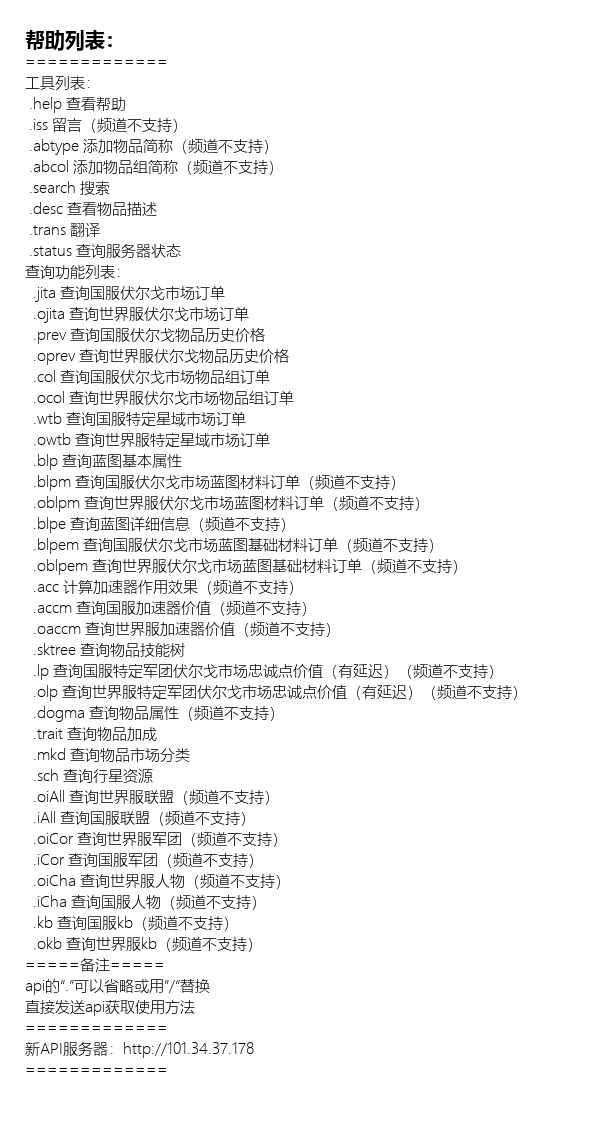
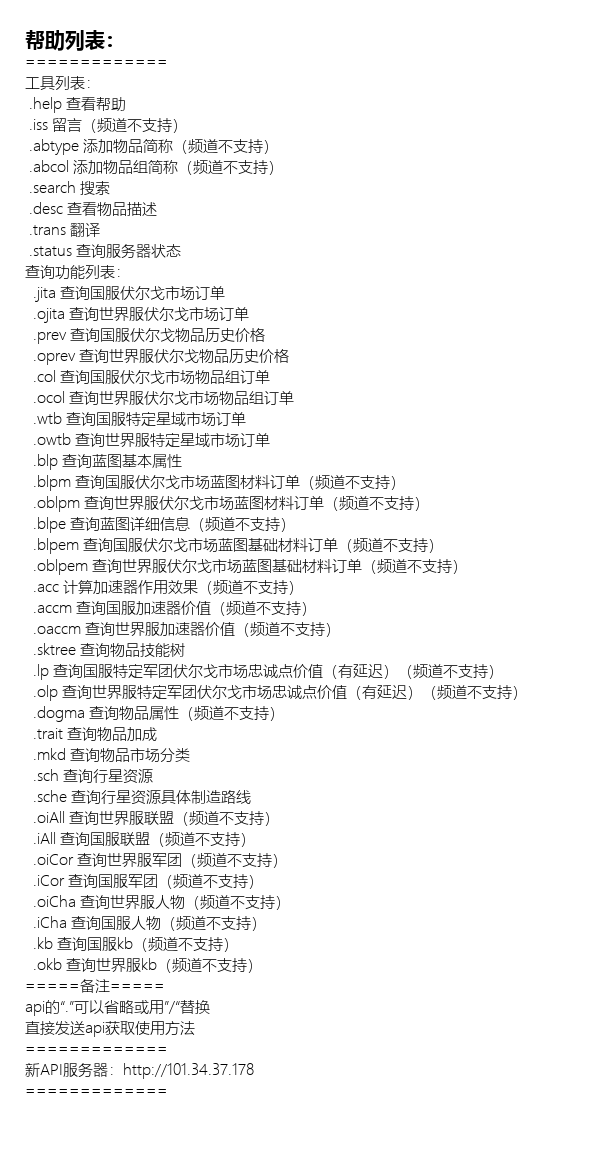
添加sche功能

Changed region(s): [[0.0299, 0.0305, 0.8671, 0.9468], [0.3887, 0.8857, 0.4186, 0.9162]]

diff --git a/sup.py b/sup.py
@@ -27,7 +27,7 @@ mpl.rcParams['axes.unicode_minus'] = False
 
 global market_type_list, blp_list, reg_list, mkd_list, prod_list, data_list, blpt_list, id_list, blp_detail_list, abbr_list, logger, logger2, \
     desc_list, trans_version_df, npc_cor_list, dogma_list, plaSch_list, traits_list, ship_data_list, plaSch_id_list, skill_dict, skill_point, \
-    skill_base_point
+    skill_base_point, sch_expand_dict, sch_prod_dict_f, sch_prod_dict_e
 '''supporting databases'''
 BASE_DATA_PATH = 'supporting_files/data.csv'
 BASE_BLP_PATHr = 'supporting_files/blueprints.yaml'
@@ -51,6 +51,8 @@ BASE_ISSLOG_PATH = 'bot_logs/issue_logs'
 BASE_HELPER_PATH = 'sup_images/helper_image.png'
 BASE_ADMIN_HELPER_PATH = 'sup_images/helper_admin_image.png'
 BASE_SKILL_LIST_PATH = 'supporting_files/skill.yaml'
+BASE_SCH_EXPAND_PATH = 'supporting_files/schExpand.yaml'
+BASE_SCH_PROD_PATH = 'supporting_files/schProducts.csv'
 
 skill_base_point = [0, 250, 1414, 8000, 45254, 256000]
 
@@ -301,7 +303,8 @@ def pre_load():
     -> maxProductionLimit:int
     """
     global market_type_list, blp_list, reg_list, mkd_list, prod_list, data_list, blpt_list, id_list, blp_detail_list, abbr_list, logger, logger2, \
-        desc_list, trans_version_df, npc_cor_list, dogma_list, plaSch_list, traits_list, ship_data_list, plaSch_id_list, skill_dict, skill_point, skill_base_point
+        desc_list, trans_version_df, npc_cor_list, dogma_list, plaSch_list, traits_list, ship_data_list, plaSch_id_list, skill_dict, skill_point, \
+        skill_base_point, sch_expand_dict, sch_prod_dict_f, sch_prod_dict_e
     if not os.path.exists(BASE_LOG_PATH):
         os.makedirs(BASE_LOG_PATH)
     if not os.path.exists(BASE_ISSLOG_PATH):
@@ -347,7 +350,9 @@ def pre_load():
             open(BASE_TRAITS_PATH, mode='r', encoding='utf-8') as traitf, \
             open(BASE_SHIP_LIST_PATH, mode='r', encoding='utf-8') as slpf, \
             open(BASE_PLANET_SCH_NAME_PATH, mode='r', encoding='utf-8') as psnpf, \
-            open(BASE_SKILL_LIST_PATH, mode='r', encoding='utf-8') as skf:
+            open(BASE_SKILL_LIST_PATH, mode='r', encoding='utf-8') as skf, \
+            open(BASE_SCH_EXPAND_PATH, mode='r', encoding='utf-8') as schef, \
+            open(BASE_SCH_PROD_PATH, mode='r', encoding='utf-8') as scprodf:
         c = csv.reader(data)
         keys = next(c)
         data_list = {}
@@ -401,6 +406,13 @@ def pre_load():
         plaSch_id_list = {}
         for row in p:
             plaSch_id_list[row[1]] = row[0]
+        dp = csv.reader(scprodf)
+        next(dp)
+        sch_prod_dict_f = {}
+        sch_prod_dict_e = {}
+        for row in dp:
+            sch_prod_dict_f[row[0]] = row[1]
+            sch_prod_dict_e[row[1]] = row[0]
         blp_list = yaml.safe_load(blpf)
         blp_detail_list = yaml.safe_load(blpd)
         abbr_list = yaml.safe_load(abbr)
@@ -410,9 +422,11 @@ def pre_load():
         plaSch_list = yaml.safe_load(plcf)
         traits_list = yaml.safe_load(traitf)
         skill_dict = yaml.safe_load(skf)
+        sch_expand_dict = yaml.safe_load(schef)
         del c, rr, m, p, t
         return market_type_list, blp_list, reg_list, mkd_list, prod_list, data_list, blpt_list, id_list, blp_detail_list, \
-               abbr_list, desc_list, trans_version_df, npc_cor_list, dogma_list, plaSch_list, traits_list, ship_data_list, plaSch_id_list, logger, logger2, skill_dict
+               abbr_list, desc_list, trans_version_df, npc_cor_list, dogma_list, plaSch_list, traits_list, ship_data_list, plaSch_id_list, logger, \
+               logger2, skill_dict, sch_expand_dict, sch_prod_dict_f, sch_prod_dict_e
 
 
 def admin(command: list, group_id: int, sender: dict, *args, **kwargs):
@@ -1684,7 +1698,7 @@ def sch(command: list, group_id: int, *args, **kwargs) -> Union[dict, bool]:
         except KeyError:
             typename = max(
                 process.extract(
-                    typename, plaSch_list.keys(), limit=5
+                    typename, plaSch_id_list.keys(), limit=5
                 ),
                 key=lambda x: fuzz.ratio(typename, x[0])
             )[0]
@@ -1701,6 +1715,65 @@ def sch(command: list, group_id: int, *args, **kwargs) -> Union[dict, bool]:
             text += '  {}\n'.format(id_list[str(i)])
     return {'action': 'send_group_msg', 'params': {'group_id': group_id, 'message': [
         {'type': 'text', 'data': {'text': text}}]}, 'echo': 'apiCallBack'}
+
+
+def sche_formatter(fmt, level: int):
+    global id_list
+    text = ''
+    if len(fmt['materials']) > 1:
+        for f in range(len(fmt['materials']) - 1):
+            text += '  ' * level + '├─' + '{0} × {1}\n'.format(id_list[str(fmt['materials'][f]['typeId'])], fmt['materials'][f]['quantity'])
+            if 'materials' in fmt['materials'][f].keys():
+                text += sche_formatter(fmt['materials'][f], level + 1)
+    text += '  ' * level + '└─' + '{0} × {1}\n'.format(id_list[str(fmt['materials'][-1]['typeId'])], fmt['materials'][-1]['quantity'])
+    return text
+
+
+def sche(command: list, group_id: int, *args, **kwargs) -> Union[dict, bool]:
+    global data_list, id_list, plaSch_id_list, sch_expand_dict, sch_prod_dict_f, sch_prod_dict_e
+    print('using sche')
+    if len(command) < 1 or command[0] == '':
+        text = '用法(sche)： .sche 行星产物名'
+        return {'action': 'send_group_msg', 'params': {'group_id': group_id, 'message': [
+            {'type': 'text', 'data': {'text': text}}]}, 'echo': 'apiCallBack'}
+    else:
+        typename = command[0]
+        try:
+            dt_id = plaSch_id_list[typename]
+            tp_id = data_list[typename]
+        except KeyError:
+            typename = max(
+                process.extract(
+                    typename, plaSch_id_list.keys(), limit=5
+                ),
+                key=lambda x: fuzz.ratio(typename, x[0])
+            )[0]
+            dt_id = int(plaSch_id_list[typename])
+            tp_id = data_list[typename]
+        dt = sch_expand_dict[dt_id]
+        title_text = '物品名称：%s' % id_list[tp_id]
+        text = '产出：{0}×{1}\n'.format(id_list[tp_id], dt['quantity'])
+        text += sche_formatter(dt, 0)
+        img_base = Image.new("RGB", (1, 1), 'white')
+        img_draw = ImageDraw.Draw(img_base)
+        title_width = img_draw.textsize(title_text, simhei_20)[0]
+        text_width, text_height = img_draw.textsize(text, simhei_15)
+        # print(inf_data[2])
+        # print(dl)
+        img_base = img_base.resize((
+            max(50 + title_width + 50, 50 + text_width + 50),
+            100 + text_height + 100))
+        img_draw = ImageDraw.Draw(img_base)
+        img_draw.text((50, 50), text=title_text, fill='black', font=simhei_b_20)
+        img_draw.text((50, 100), text=text, fill='black', font=simhei_15)
+        fp = '$' + time.strftime('%Y%m%d%H%M%S', time.localtime(time.time())) + \
+             str(random.randint(random.randint(0, 150), random.randint(200, 300)))
+        img_base.save('data/images/cache/' + fp + ".png")
+        return {'action': 'send_group_msg',
+                'params': {'group_id': group_id,
+                           'message': [{'type': 'image',
+                                        'data': {'file': 'cache\\' + fp + '.png'}}]},
+                'echo': 'IMAGE' + 'data/images/cache/' + fp + ".png"}
 
 
 def lp(command: list, group_id: int, *args, **kwargs) -> Union[dict, bool]:
@@ -2986,7 +3059,7 @@ def acc(command: list, group_id: int, *args, **kwargs):
 
 def accm(command: list, group_id: int, *args, **kwargs):
     print('using accm')
-    if len(command) < 2 or int(command[0]) * int(command[1]) == 0:
+    if len(command) < 2 or float(command[0]) * float(command[1]) == 0:
         text = '用法(accm)：.accm 属性加成，实际作用时长，（脑浆衰减档次）\n' \
                '例：.accm 4，7\n即：应用加成后7天+4加速器\n.accm, 5，5，3\n即：应用加成后5天+5加速器，档次3(500,000→150,000)'
     else:
@@ -3006,7 +3079,7 @@ def accm(command: list, group_id: int, *args, **kwargs):
             dec = 150_000
         l_skill = requests.get(BASE_SKILL_MARKET).json()
         s_skill = requests.get(BASE_SKILL_S_MARKET).json()
-        v_point = plus * 3 * 24 * 60 * day
+        v_point = plus * 1.5 * 24 * 60 * day
         ave_skill_m = (l_skill['sell']['min'] + l_skill['buy']['max'] + 5 * s_skill['sell']['min'] + 5 * s_skill['buy']['max']) / 4
         isk_per_point = ave_skill_m / dec
         v_worth = v_point * isk_per_point
@@ -3024,7 +3097,7 @@ def accm(command: list, group_id: int, *args, **kwargs):
 
 def oaccm(command: list, group_id: int, *args, **kwargs):
     print('using oaccm')
-    if len(command) < 2 or int(command[0]) * int(command[1]) == 0:
+    if len(command) < 2 or float(command[0]) * float(command[1]) == 0:
         text = '用法(oaccm)：.oaccm 属性加成，实际作用时长，（脑浆衰减档次）\n' \
                '例：.oaccm 4，7\n即：应用加成后7天+4加速器\n.oaccm, 5，5，3\n即：应用加成后5天+5加速器，档次3(500,000→150,000)'
     else:
@@ -3044,7 +3117,7 @@ def oaccm(command: list, group_id: int, *args, **kwargs):
             dec = 150_000
         l_skill = requests.get(BASE_SKILL_MARKET_TQ).json()
         s_skill = requests.get(BASE_SKILL_S_MARKET_TQ).json()
-        v_point = plus * 3 * 24 * 60 * day
+        v_point = plus * 1.5 * 24 * 60 * day
         ave_skill_m = (l_skill['sell']['min'] + l_skill['buy']['max'] + 5 * s_skill['sell']['min'] + 5 * s_skill['buy']['max']) / 4
         isk_per_point = ave_skill_m / dec
         v_worth = v_point * isk_per_point
@@ -3064,17 +3137,17 @@ def skill_expand(id_: int, c: int, level: int, fn: bool, dlevel: dict, title: bo
     global skill_dict, data_list, id_list, skill_base_point
     if id_ not in skill_dict.keys():
         if fn:
-            return ('    ' * c + '└ %s' % id_list[str(id_)] + '\n', '- ' + '■ ' * level + '\n', [], dlevel)\
+            return ('    ' * c + '└─ %s' % id_list[str(id_)] + '\n', '- ' + '■ ' * level + '\n', [], dlevel) \
                 if not title else ('', '', [], dlevel)
         else:
-            return ('    ' * c + '├ %s' % id_list[str(id_)] + '\n', '- ' + '■ ' * level + '\n', [], dlevel)\
+            return ('    ' * c + '├─ %s' % id_list[str(id_)] + '\n', '- ' + '■ ' * level + '\n', [], dlevel) \
                 if not title else ('', '', [], dlevel)
     else:
         if fn:
-            n_t = '    ' * c + '└ %s' % id_list[str(id_)] + '\n' if not title else ''
+            n_t = '    ' * c + '└─ %s' % id_list[str(id_)] + '\n' if not title else ''
             n_l = '- ' + '■ ' * level + '\n' if not title else ''
         else:
-            n_t = '    ' * c + '├ %s' % id_list[str(id_)] + '\n' if not title else ''
+            n_t = '    ' * c + '├─ %s' % id_list[str(id_)] + '\n' if not title else ''
             n_l = '- ' + '■ ' * level + '\n' if not title else ''
         if 'time' in skill_dict[id_].keys():
             if not title:
@@ -3087,20 +3160,20 @@ def skill_expand(id_: int, c: int, level: int, fn: bool, dlevel: dict, title: bo
             else:
                 n_p = []
         if id_ in dlevel.keys():
-            if level >= dlevel[id_]:
+            if level > dlevel[id_]:
                 dlevel[id_] = level
         else:
             dlevel[id_] = level
         if 'skill' in skill_dict[id_].keys() and skill_dict[id_]['skill'] != []:
             for i in range(len(skill_dict[id_]['skill']) - 1):
                 n_tn, n_ln, n_pn, lv = skill_expand(skill_dict[id_]['skill'][i]['skillId'], c + 1, skill_dict[id_]['skill'][i]['skillLevel'],
-                                                          False, dlevel)
+                                                    False, dlevel)
                 n_t += n_tn
                 n_l += n_ln
                 n_p += n_pn
                 dlevel = lv
             n_tn, n_ln, n_pn, lv = skill_expand(skill_dict[id_]['skill'][-1]['skillId'], c + 1, skill_dict[id_]['skill'][-1]['skillLevel'],
-                                                      True, dlevel)
+                                                True, dlevel)
             n_t += n_tn
             n_l += n_ln
             n_p += n_pn
@@ -3136,7 +3209,7 @@ def sktree(command: list, group_id: int, *args, **kwargs) -> Union[bool, dict]:
         if inf_data != ('', '', [], 0, []):
             dl = inf_data[3]
             gbt: int = sum([(skill_base_point[level]
-                            * (skill_dict[id_]['time'] if 'time' in skill_dict[id_].keys() else 0)) for id_, level in dl.items()])
+                             * (skill_dict[id_]['time'] if 'time' in skill_dict[id_].keys() else 0)) for id_, level in dl.items()])
             m_skill_text = '总技能点需求：%s' % format(gbt, ',')
             m_t = gbt / 0.5
             m_time_text = '预估训练用时：{0}年{1}天{2}小时{3}分钟{4}秒'.format(int(m_t // (3600 * 24 * 365)),
@@ -3150,7 +3223,8 @@ def sktree(command: list, group_id: int, *args, **kwargs) -> Union[bool, dict]:
             m_skill_width = img_draw.textsize(m_skill_text, simhei_20)[0]
             # print(inf_data[2])
             # print(dl)
-            point_text = '\n'.join([('- %s' % ('×' if x['skill'] not in dl.keys() or x['level'] < dl[x['skill']] else x['point'])) for x in inf_data[2]])
+            point_text = '\n'.join(
+                [('- %s' % ('×' if x['skill'] not in dl.keys() or x['level'] < dl[x['skill']] else x['point'])) for x in inf_data[2]])
             point_width = img_draw.textsize(point_text, simhei_15)[0]
             m_height = img_draw.textsize(inf_data[0], simhei_15)[1]
             img_base = img_base.resize((

diff --git a/main.py b/main.py
@@ -108,7 +108,8 @@ if __name__ == '__main__':
         re_log(rtm=time.localtime(time.time()))
         print('---Data Pre Loading---')
         market_type_list, blp_list, reg_list, mkd_list, prod_list, data_list, blpt_list, id_list, blp_detail_list, \
-            abbr_list, desc_list, trans_version_df, npc_cor_list, dogma_list, plaSch_list, traits_list, ship_data_list, plaSch_id_list, logger, logger2, skill_dict = sup.pre_load()
+            abbr_list, desc_list, trans_version_df, npc_cor_list, dogma_list, plaSch_list, traits_list, ship_data_list, plaSch_id_list, logger, \
+            logger2, skill_dict, sch_expand_dict, sch_prod_dict_f, sch_prod_dict_e = sup.pre_load()
         server = websockets.serve(rt, 'localhost', 5705)
         print('---Group Bot Server Started---')
         intent = botpy.Intents(public_guild_messages=True)
